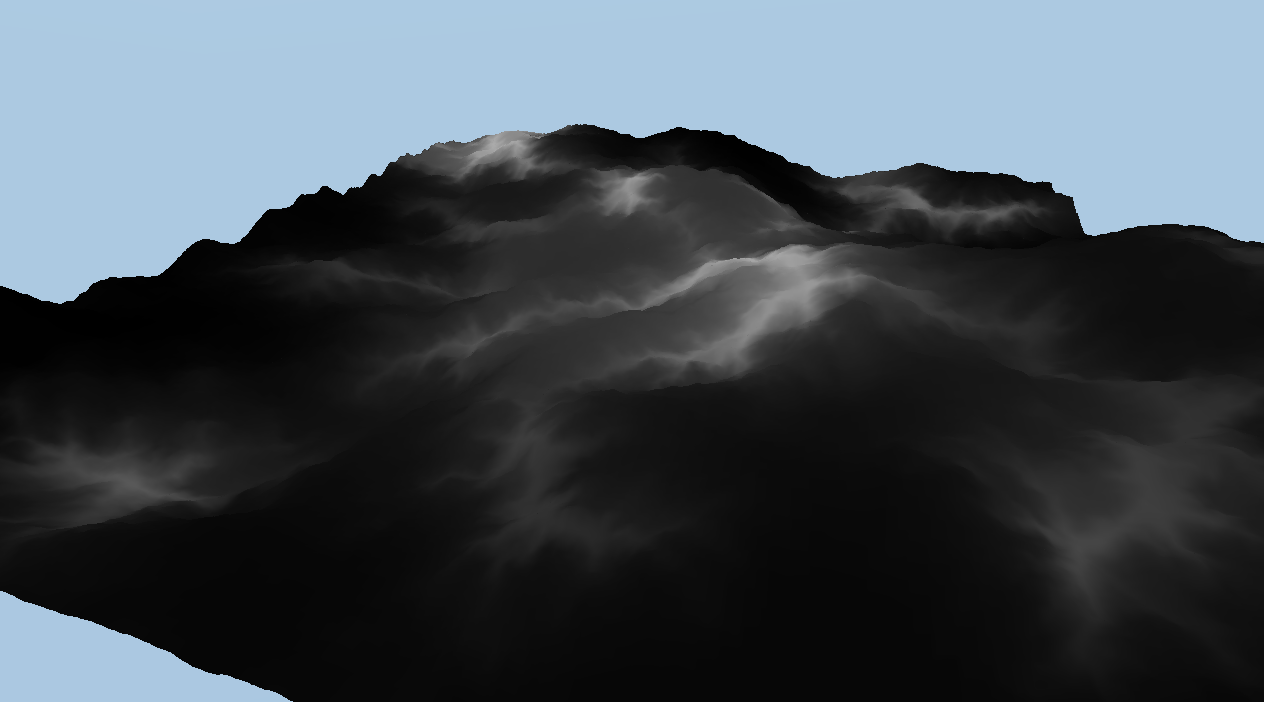
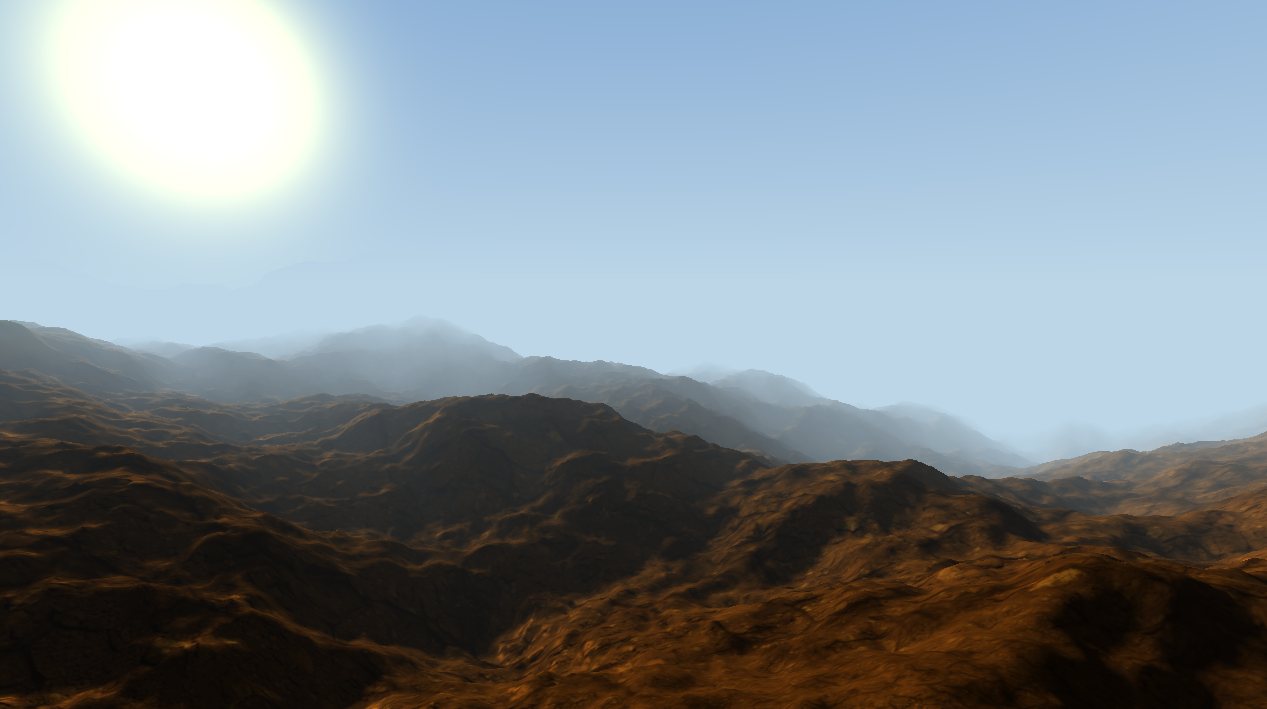
Updated Graphics Application To The Latest Version.

diff --git a/index.html b/index.html
@@ -556,7 +556,7 @@
                                 </p>
                                 <p class="mb-4 text-secondary">The terrain heightmap is generated using octave perlin
                                     noise, and utilizes multi-threading. The work gets divided over batches which is
-                                    based on the concurrency level.</p>
+                                    based on the concurrency level. The fog and sun are created using GLSL Shaders.</p>
                                 <p class="mb-4 text-secondary">This project is not yet finished.</p>
 
                                 <button class="btn btn-primary" data-bs-dismiss="modal">
